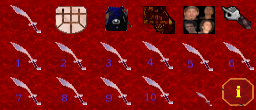
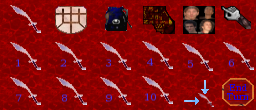
pequenas mudancas na interface

Changed region(s): [[0.875, 0.7636, 0.9688, 0.9273], [0.7188, 0.7091, 0.8438, 0.9818]]

diff --git a/src/engine/dccnit.cpp b/src/engine/dccnit.cpp
@@ -1410,11 +1410,29 @@ void engine::Draw()
    
    /* mouse Cursor Draw */
    GLfloat Z = 0.01;
+
    GLuint Y = SCREEN_Y - mouseY;
+
+   /*if(mouseY > SCREEN_Y - 32)
+   {
+      Y = 32;
+   }
+   else
+   {
+      Y = SCREEN_Y - mouseY;
+   }*/
+
    gluUnProject(mouseX,Y, Z, modl, proj, viewPort, &x1, &y1, &z1);
    gluUnProject(mouseX,Y-32,Z, modl, proj, viewPort, &x2, &y2, &z2);
    gluUnProject(mouseX+32,Y-32,Z,modl,proj,viewPort, &x3, &y3, &z3);
    gluUnProject(mouseX+32,Y,Z, modl, proj, viewPort, &x4, &y4, &z4);
+
+   /*gluUnProject(0,SCREEN_Y, Z, modl, proj, viewPort, &x1, &y1, &z1);
+   gluUnProject(0,SCREEN_Y-32,Z, modl, proj, viewPort, &x2, &y2, &z2);
+   gluUnProject(32,SCREEN_Y-32,Z,modl,proj,viewPort, &x3, &y3, &z3);
+   gluUnProject(32,SCREEN_Y,Z, modl, proj, viewPort, &x4, &y4, &z4);*/
+
+   glPushMatrix();
 
    //FIXME BUG when mouse after screenY-32
    glEnable(GL_TEXTURE_2D);
@@ -1429,9 +1447,21 @@ void engine::Draw()
       glVertex3f(x3,y3,z3);
       glTexCoord2f(1,0);
       glVertex3f(x4,y4,z4);
+      /*glNormal3f( 0, 0, 1 );
+      glTexCoord2f(0,0);
+      glVertex2f(mouseX,Y);
+      glTexCoord2f(0,1);
+      glVertex2f(mouseX,Y-32);
+      glTexCoord2f(1,1);
+      glVertex2f(mouseX+32,Y-32);
+      glTexCoord2f(1,0);
+      glVertex2f(mouseX+32,Y);*/
    glEnd();
    glDisable(GL_TEXTURE_2D);
    glDisable(GL_BLEND);
+
+   glPopMatrix();
+
    //glDisable(GL_ALPHA_TEST);
 
    glEnable(GL_LIGHTING);
